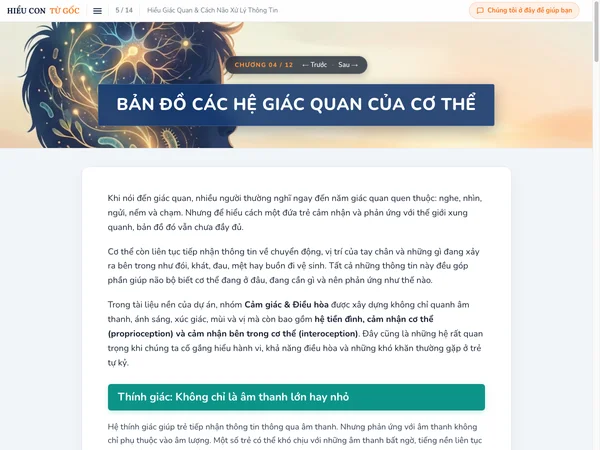
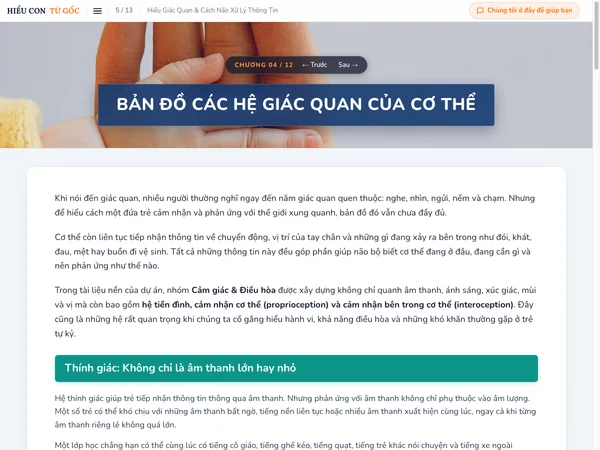
feat: cập nhật ảnh nền trang bìa và header theo ảnh pexels bàn tay ba mẹ và bé

diff --git a/assets/css/doc.css b/assets/css/doc.css
@@ -12,7 +12,7 @@
   background-color: #f1f5f9;
   background-image: var(--cover-image, none);
   background-size: cover;
-  background-position: left center;
+  background-position: center 35%;
   background-attachment: fixed;
 }
 
